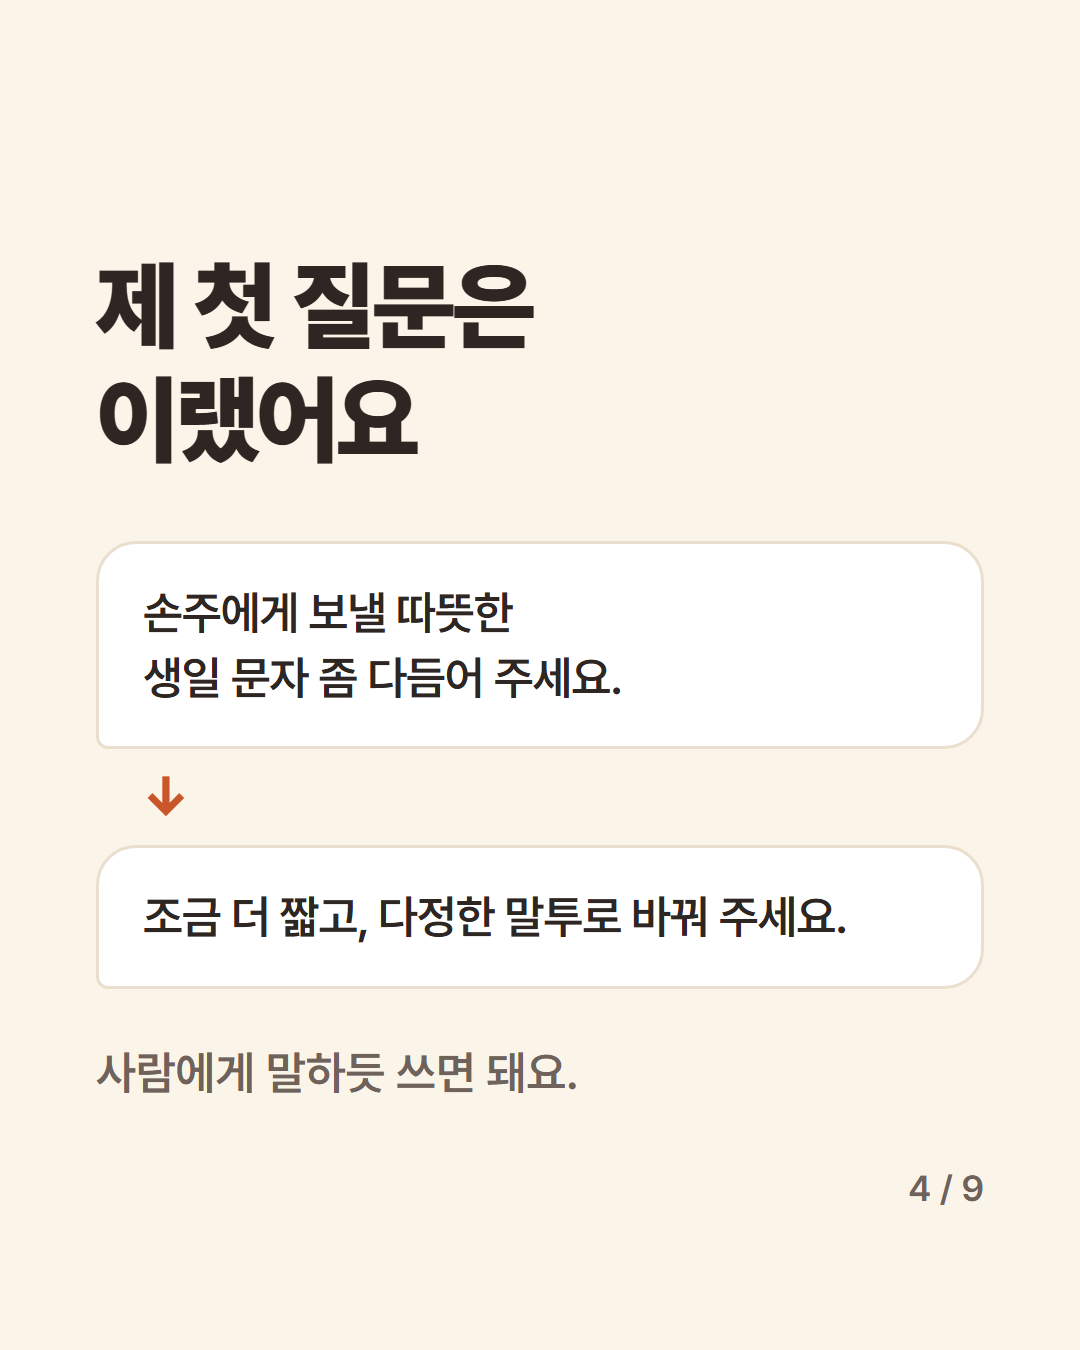
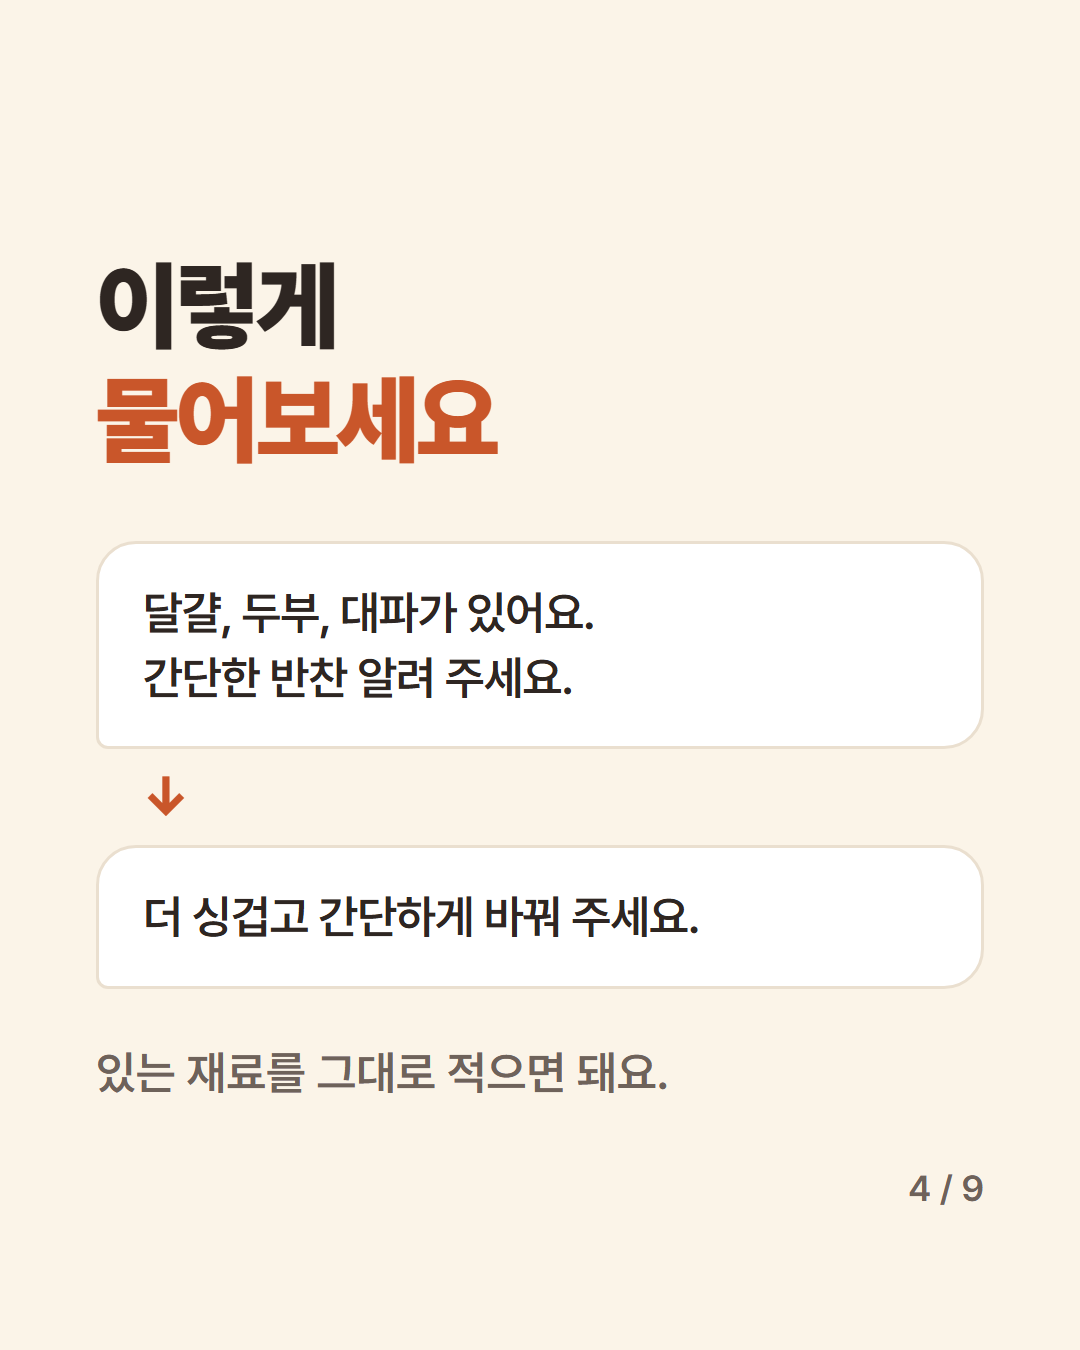
캐러셀 예시 이야기 변경: 손주 생일 문자 → 냉장고 속 재료로 레시피 만들기

diff --git a/carousel/2026-10-21-AI첫질문/slides.html b/carousel/2026-10-21-AI첫질문/slides.html
@@ -62,12 +62,12 @@
 <section class="slide cover">
   <div class="bar"></div>
   <h1>AI <em>첫 질문,</em><br>이렇게<br>해 보세요</h1>
-  <div class="sub">60대도 오늘 바로<br>할 수 있어요</div>
+  <div class="sub">냉장고 속 재료로<br>오늘 바로 시작해요</div>
 </section>
 
 <section class="slide">
   <h1>“이 나이에<br>AI를 뭐 하러?”</h1>
-  <p>저도 그렇게 생각했어요.<br>손주 생일 문자가 자꾸<br><b>딱딱하게 써지기 전까지는요.</b></p>
+  <p>냉장고 문을 열고<br>“오늘 뭐 해 먹지?” 막막할 때<br><b>AI가 꽤 쓸모 있어요.</b></p>
   <div class="page">2 / 9</div>
 </section>
 
@@ -79,17 +79,17 @@
 </section>
 
 <section class="slide">
-  <h1>제 첫 질문은<br>이랬어요</h1>
-  <div class="bubble first">손주에게 보낼 따뜻한<br>생일 문자 좀 다듬어 주세요.</div>
+  <h1>이렇게<br><em>물어보세요</em></h1>
+  <div class="bubble first">달걀, 두부, 대파가 있어요.<br>간단한 반찬 알려 주세요.</div>
   <div class="arrow">↓</div>
-  <div class="bubble" style="margin-top:20px">조금 더 짧고, 다정한 말투로 바꿔 주세요.</div>
-  <div class="note">사람에게 말하듯 쓰면 돼요.</div>
+  <div class="bubble" style="margin-top:20px">더 싱겁고 간단하게 바꿔 주세요.</div>
+  <div class="note">있는 재료를 그대로 적으면 돼요.</div>
   <div class="page">4 / 9</div>
 </section>
 
 <section class="slide">
   <h1>따라 해 볼<br>부탁 <em>3가지</em></h1>
-  <div class="bubble first">두부로 만드는 간단한 반찬 알려 주세요.</div>
+  <div class="bubble first">이번 주 장 볼 목록 정리해 주세요.</div>
   <div class="bubble">친구 칠순 축하 문자 써 주세요.</div>
   <div class="bubble">감기 기운 있을 때 집에서 할 일 알려 주세요.</div>
   <div class="page">5 / 9</div>
@@ -124,7 +124,7 @@
 <section class="slide last">
   <div class="bar"></div>
   <h1>오늘<br>딱 하나만<br>해 보세요</h1>
-  <p>가까운 사람에게 보낼 문자 한 통,<br>AI에게 다듬어 달라고 해 보세요.</p>
+  <p>냉장고 속 재료를 적고<br>“뭘 해 먹을까요?”<br>물어보세요.</p>
   <div class="save">저장해 두고 천천히 따라 해 보세요</div>
   <div class="page">9 / 9</div>
 </section>

diff --git a/carousel/2026-10-21-AI첫질문.md b/carousel/2026-10-21-AI첫질문.md
@@ -1,19 +1,19 @@
 제목: AI 첫 질문, 이렇게 해 보세요
 장 수: 9장
-캡션: "이 나이에 AI를 해서 뭐 하나" 싶으셨나요? 저도 그랬어요. 손주 생일 문자 한 통에서 시작한 제 첫 질문 이야기와, 오늘 바로 따라 해 볼 부탁 문장을 모았어요. 나중에 천천히 따라 해 보시게 저장해 두세요. AI에게 처음 무엇을 물어보고 싶으신지 댓글로 들려주세요.
-해시태그: #시니어프로보노 #60대 #시니어 #AI처음 #AI사용법 #챗GPT #클로드 #스마트폰배우기 #배움에는나이가없다 #카드뉴스
+캡션: "이 나이에 AI를 해서 뭐 하나" 싶으셨나요? 냉장고 속 재료만 적어도 AI가 오늘 반찬을 알려 줘요. 첫 질문 하는 법과 오늘 바로 따라 해 볼 부탁 문장을 모았어요. 나중에 천천히 따라 해 보시게 저장해 두세요. AI에게 처음 무엇을 물어보고 싶으신지 댓글로 들려주세요.
+해시태그: #시니어프로보노 #60대 #시니어 #AI처음 #AI사용법 #챗GPT #클로드 #스마트폰배우기 #냉장고파먹기 #배움에는나이가없다 #카드뉴스
 색: 배경 #FBF4E8 / 글자 #2E2622 / 강조 #C9562A
-원본: blog/2026-10-21-AI첫질문.md
+원본: blog/2026-10-21-AI첫질문.md (예시 이야기를 손주 생일 문자 → 냉장고 속 재료로 레시피 만들기로 바꿈)
 ---
 
 | 장 | 큰 글자(제목) | 작은 글자(본문) | 화면 구성 |
 |---|---|---|---|
-| 1 | AI 첫 질문, 이렇게 해 보세요 | 60대도 오늘 바로 할 수 있어요 | 표지. 제목을 아주 크게, "첫 질문"만 강조색. 아래에 부제 |
-| 2 | 이 나이에 AI를 뭐 하러? | 저도 그렇게 생각했어요. 손주 생일 문자가 자꾸 딱딱하게 써지기 전까지는요. | 큰따옴표 안의 혼잣말처럼. 본문은 아래에 |
+| 1 | AI 첫 질문, 이렇게 해 보세요 | 냉장고 속 재료로 오늘 바로 시작해요 | 표지. 제목을 아주 크게, "첫 질문"만 강조색. 아래에 부제 |
+| 2 | 이 나이에 AI를 뭐 하러? | 냉장고 문을 열고 “오늘 뭐 해 먹지?” 막막할 때 AI가 꽤 쓸모 있어요. | 큰따옴표 안의 혼잣말처럼. 본문은 아래에 |
 | 3 | 첫 질문은 생활 속 부탁 | 어려운 질문은 필요 없어요. 요즘 귀찮거나 막막했던 일을 그대로 부탁하세요. | 제목 아래 본문 |
-| 4 | 제 첫 질문은 이랬어요 | 「손주에게 보낼 따뜻한 생일 문자 좀 다듬어 주세요.」 → 「조금 더 짧고, 다정한 말투로 바꿔 주세요.」 | 대화 말풍선 2개. 사람에게 말하듯 쓰면 된다는 한 줄 |
-| 5 | 따라 해 볼 부탁 3가지 | 「두부로 만드는 간단한 반찬 알려 주세요.」 「친구 칠순 축하 문자 써 주세요.」 「감기 기운 있을 때 집에서 할 일 알려 주세요.」 | 말풍선 3개를 위에서 아래로 |
+| 4 | 이렇게 물어보세요 | 「달걀, 두부, 대파가 있어요. 간단한 반찬 알려 주세요.」 → 「더 싱겁고 간단하게 바꿔 주세요.」 | 대화 말풍선 2개. 있는 재료를 그대로 적으면 된다는 한 줄 |
+| 5 | 따라 해 볼 부탁 3가지 | 「이번 주 장 볼 목록 정리해 주세요.」 「친구 칠순 축하 문자 써 주세요.」 「감기 기운 있을 때 집에서 할 일 알려 주세요.」 | 말풍선 3개를 위에서 아래로 |
 | 6 | 틀려도 괜찮아요 | 마음에 안 들면 다시 물어보면 돼요. 「잘 모르겠어요. 더 쉽게 설명해 주세요.」 | 제목 + 말풍선 1개 |
 | 7 | 꼭 지킬 두 가지 | 1. 건강·돈 문제는 의사나 믿을 만한 곳에 한 번 더 확인 2. 주민등록번호·비밀번호는 적지 않기 | 번호 두 개를 크게 |
 | 8 | 한눈에 보기 | ① 생활 속 부탁으로 시작 ② 사람에게 말하듯 쓰기 ③ 안 되면 다시 묻기 ④ 중요한 일은 꼭 확인 | 요약 목록 4줄 |
-| 9 | 오늘 딱 하나만 해 보세요 | 가까운 사람에게 보낼 문자 한 통, AI에게 다듬어 달라고 해 보세요. 저장해 두고 천천히 따라 해 보세요. | 강조색 배경 위 흰 글자. 마지막 장 |
+| 9 | 오늘 딱 하나만 해 보세요 | 냉장고 속 재료를 적고 “뭘 해 먹을까요?” 물어보세요. 저장해 두고 천천히 따라 해 보세요. | 강조색 배경 위 흰 글자. 마지막 장 |
